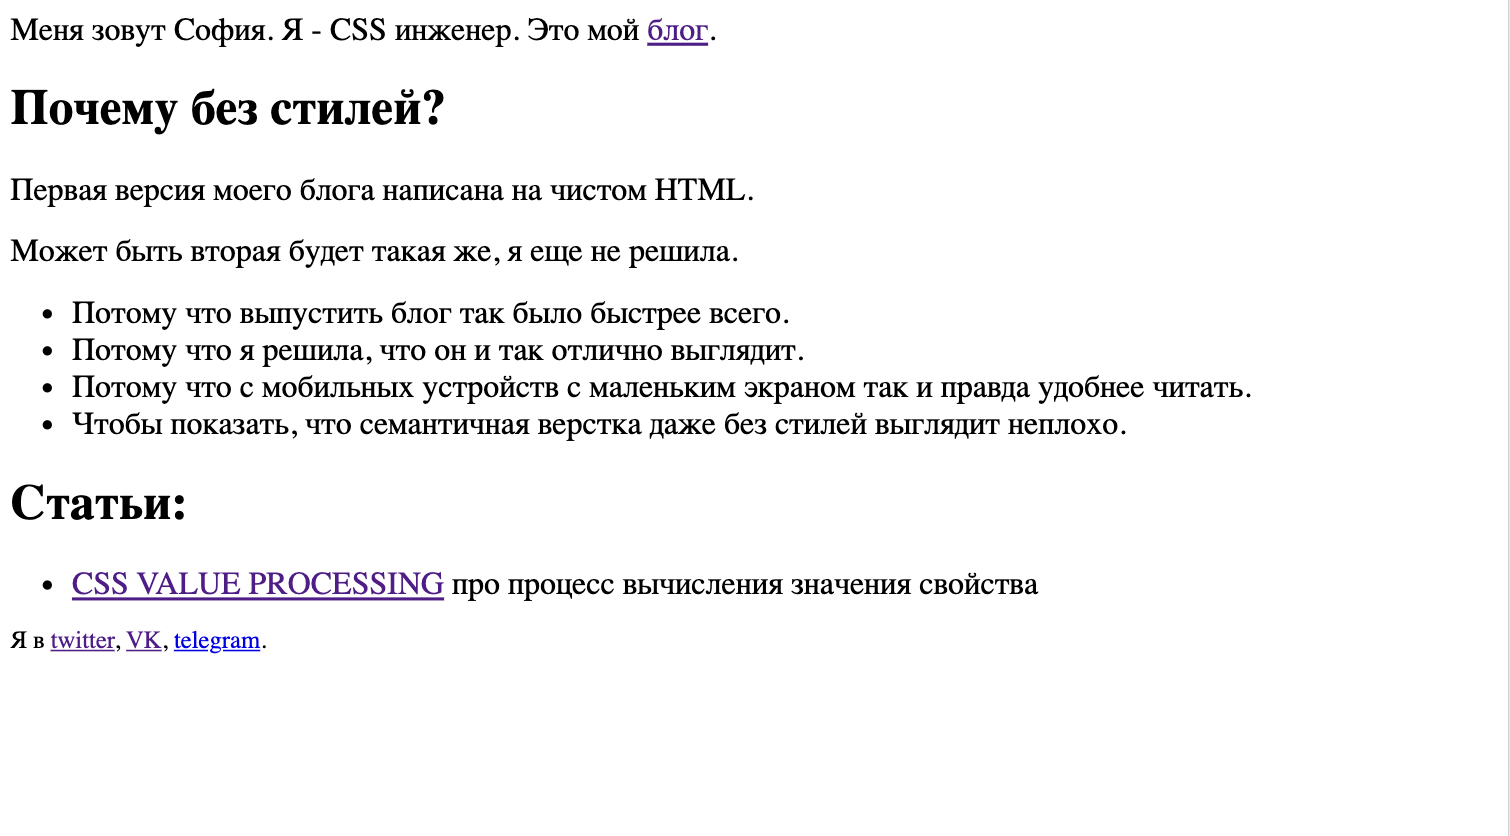
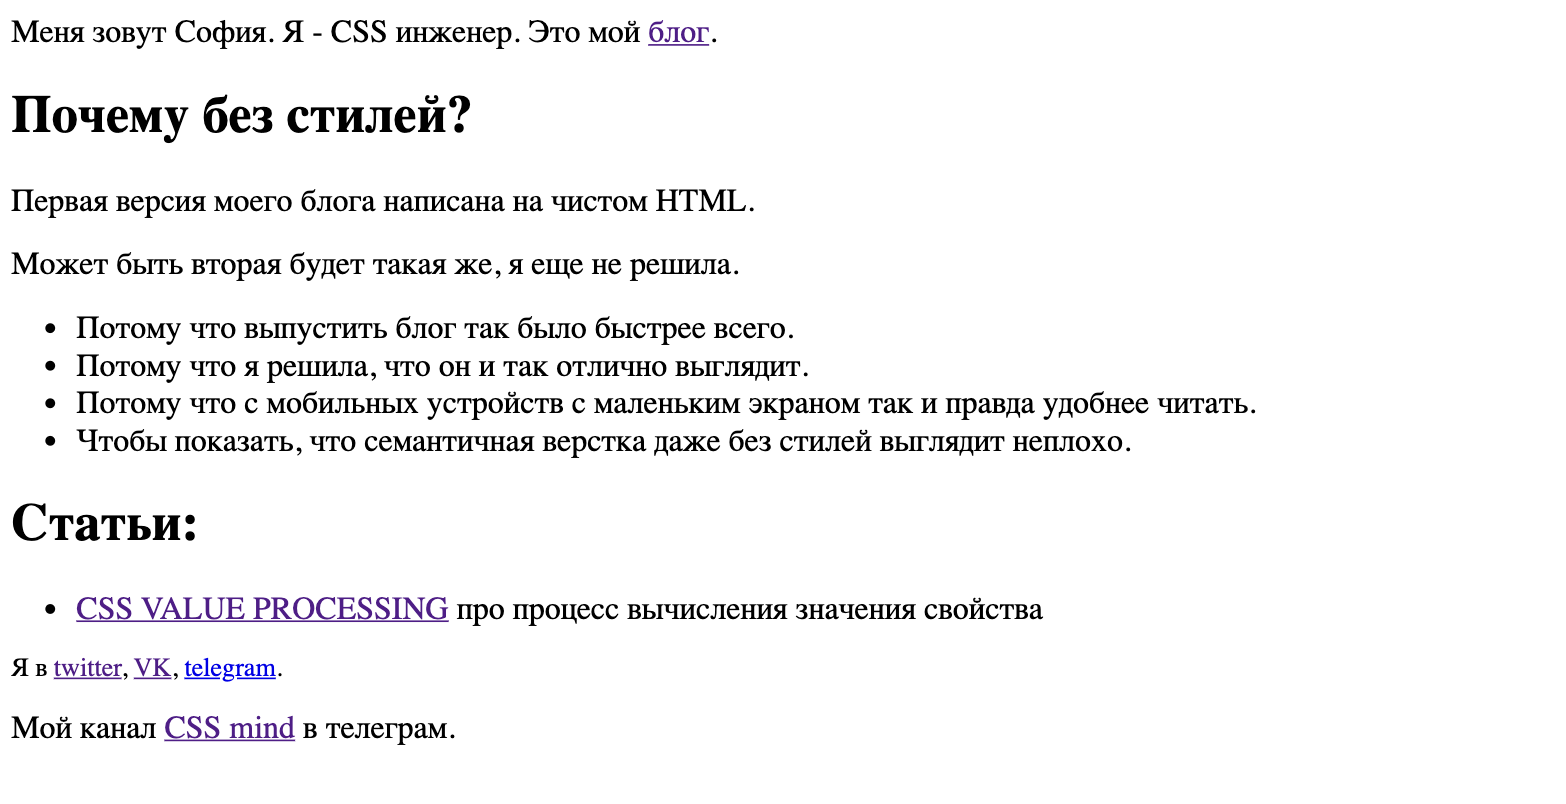
change footer: add link to telegram chanel

diff --git a/css-value-processing.html b/css-value-processing.html
@@ -311,8 +311,12 @@ font-wigth: extra bold; /* CV = 800 */</code></pre>
     <p>За помощь в написании и всём остальном спасибо <a href="https://twitter.com/SelenIT2">@SelenIT2</a> ❤</p>
 </article>
 
-<footer>Я в <a href="https://twitter.com/ariarzer">twitter</a>, <a href="https://vk.com/ariarzer">VK</a>, <a
-        href="https://t.me/ariarzer">telegram</a>.
+<footer>
+    <p>Я в <a href="https://twitter.com/ariarzer">twitter</a>, <a href="https://vk.com/ariarzer">VK</a>, <a
+            href="https://t.me/ariarzer">telegram</a>.</p>
+    <p>Мой канал <a href="https://t.me/css_mind">CSS mind</a> в телеграм.</p>
+
+    <p><br>Нашли опечатку? Сообщите мне о ней.</p>
 </footer>
 
 </body>

diff --git a/index.html b/index.html
@@ -29,8 +29,12 @@
     <li><a href="https://ariarzer.dev/css-value-processing.html">CSS VALUE PROCESSING</a> про процесс вычисления значения свойства</li>
 </ul>
 
-<footer>Я в <a href="https://twitter.com/ariarzer">twitter</a>, <a href="https://vk.com/ariarzer">VK</a>, <a
-        href="https://t.me/ariarzer">telegram</a>.
+<footer>
+    <p>Я в <a href="https://twitter.com/ariarzer">twitter</a>, <a href="https://vk.com/ariarzer">VK</a>, <a
+            href="https://t.me/ariarzer">telegram</a>.</p>
+    <p>Мой канал <a href="https://t.me/css_mind">CSS mind</a> в телеграм.</p>
+
+    <p><br>Нашли опечатку? Сообщите мне о ней.</p>
 </footer>
 
 </body>
